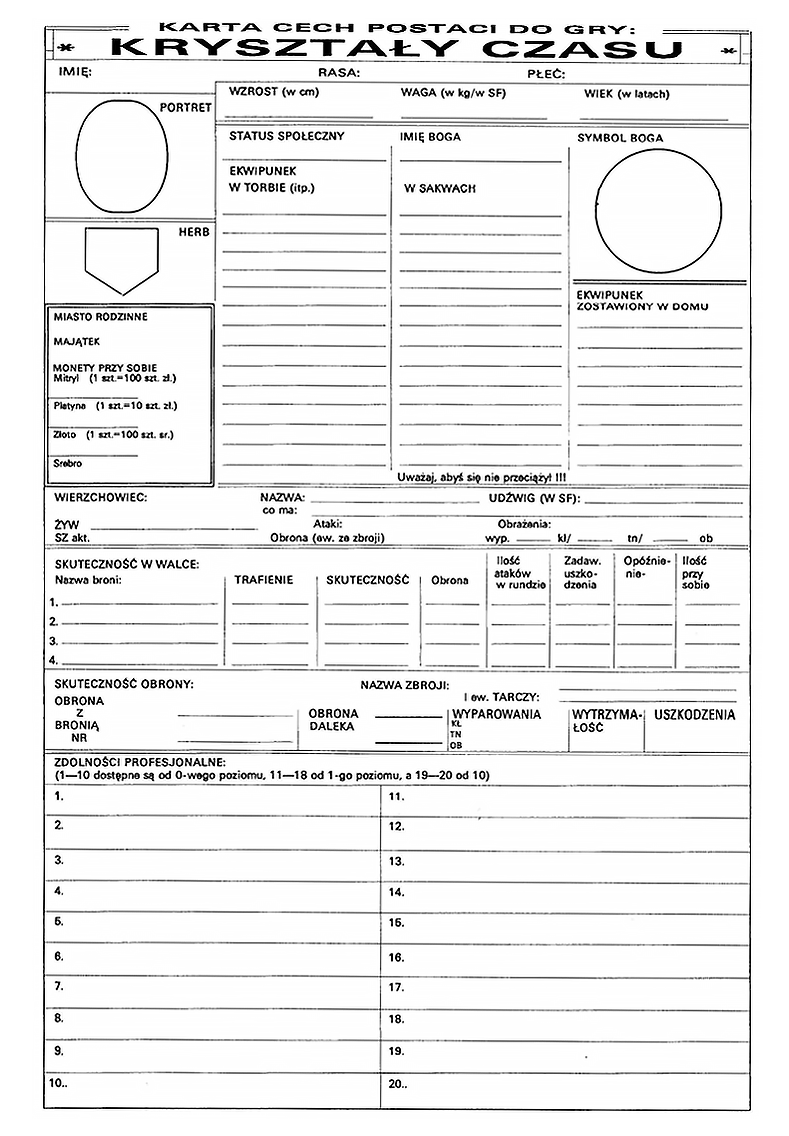
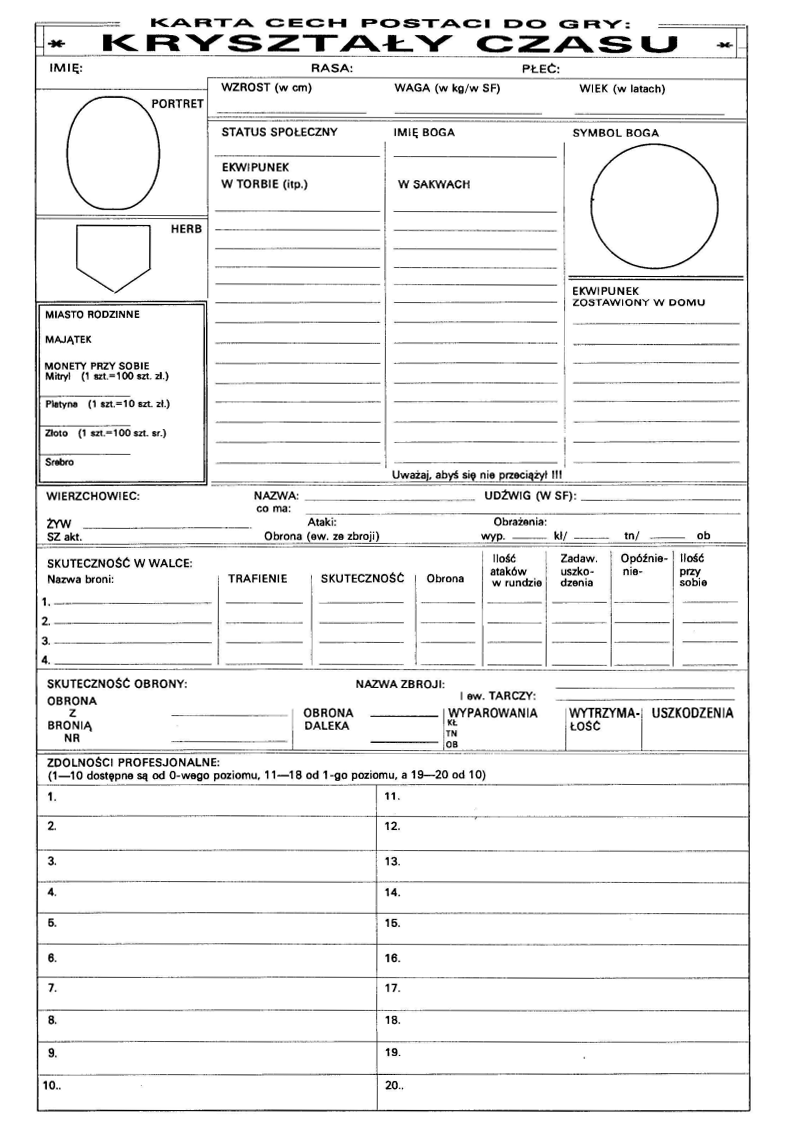
new assets

Changed region(s): [[0.0304, 0.0, 0.9734, 0.9859]]

diff --git a/src/index.css b/src/index.css
@@ -38,14 +38,14 @@ body {
 }
 
 .characterSheet_part1 {
-  background-image: url("src/assets/Karat_postaci_KC_01.png");
+  background-image: url("src/assets/Karat_postaci_KC_j1.jpg");
   background-repeat: no-repeat;
   
  width: 792px;
   height: 1130px;
 }
 .characterSheet_part2 {
-  background-image: url("src/assets/Karat_postaci_KC_02.png");
+  background-image: url("src/assets/Karat_postaci_KC_j2.jpg");
   background-repeat: no-repeat;
   
    width: 792px;
